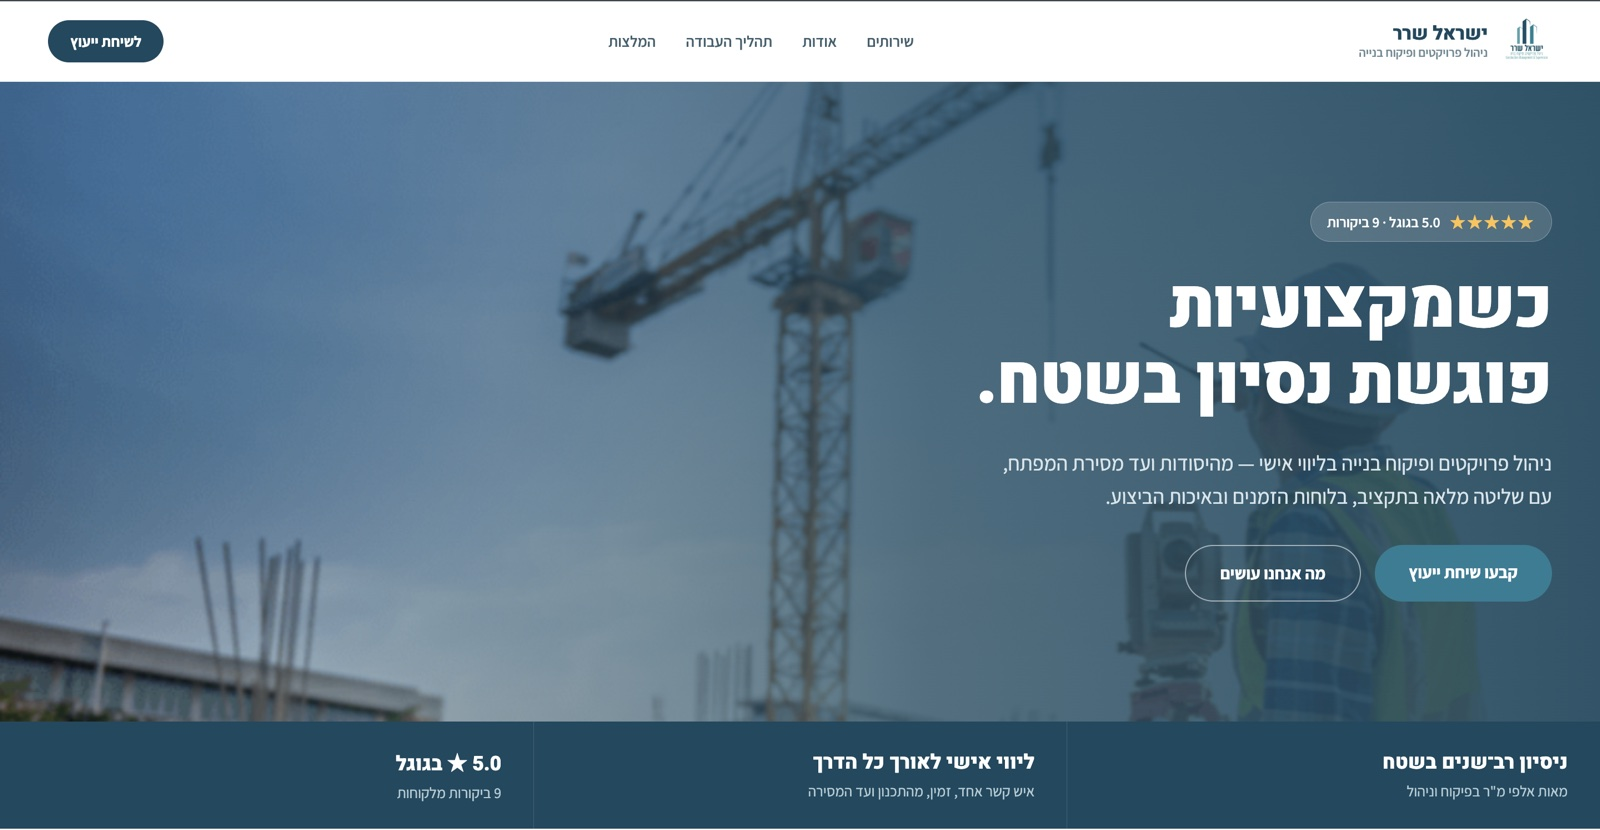
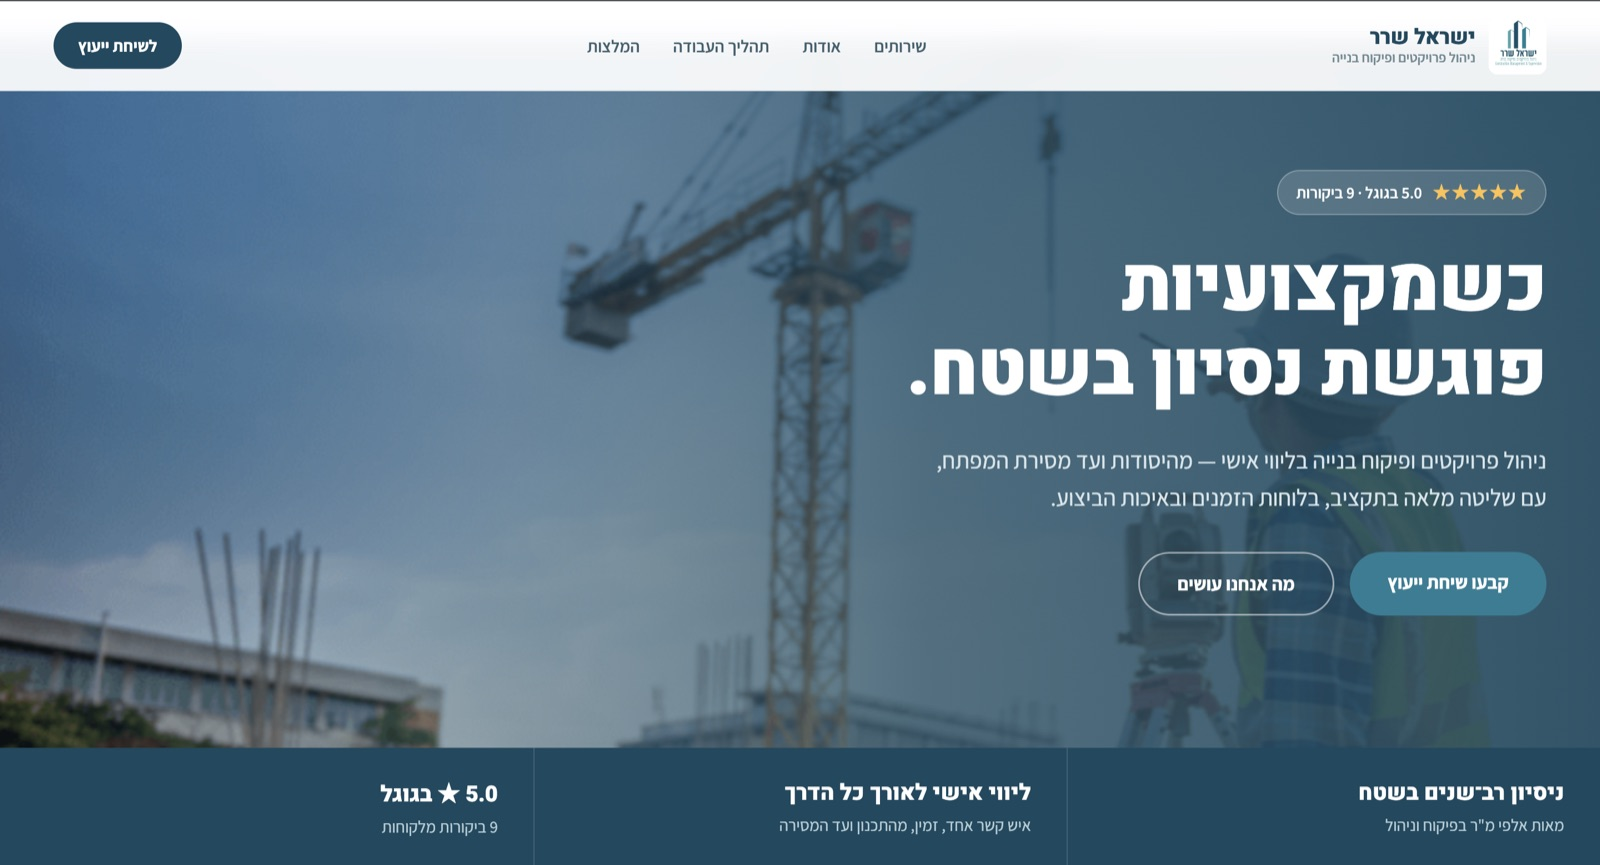
merge hero showcase into work section; update Sharar screenshot
Hero is now text-only and shorter; Work sits right below it with the
fanned, hover-to-front cards. Drop the "looking at one right now" note
and the scroll hint, and match the screenshot frame to the images.

diff --git a/src/components/Work.tsx b/src/components/Work.tsx
@@ -7,11 +7,42 @@ interface Props {
   translations: Translations;
 }
 
+// Per-card tilt: a slight alternating lean when stacked on mobile, a fan (center card raised) on desktop.
+const FAN = [
+  '-rotate-1 md:-rotate-3 md:mt-10 md:hover:scale-105',
+  'rotate-1 md:rotate-0 md:z-10 md:scale-[1.08] md:hover:scale-[1.12]',
+  '-rotate-1 md:rotate-3 md:mt-10 md:hover:scale-105',
+];
+
+// A browser-window frame around a client page screenshot.
+function BrowserShot({ src, alt, eager = false }: { src: string; alt: string; eager?: boolean }) {
+  return (
+    <div className="rounded-xl overflow-hidden bg-white ring-1 ring-border shadow-2xl shadow-black/15">
+      <div className="flex items-center gap-1.5 h-6 px-3 bg-[var(--color-border)]/60">
+        <span className="w-2 h-2 rounded-full bg-foreground/15" />
+        <span className="w-2 h-2 rounded-full bg-foreground/15" />
+        <span className="w-2 h-2 rounded-full bg-foreground/15" />
+      </div>
+      <div className="relative aspect-[1600/865]">
+        <Image
+          src={src}
+          alt={alt}
+          fill
+          sizes="(min-width: 768px) 26vw, 80vw"
+          loading={eager ? 'eager' : 'lazy'}
+          fetchPriority={eager ? 'high' : 'auto'}
+          className="object-cover object-top"
+        />
+      </div>
+    </div>
+  );
+}
+
 export default function Work({ translations: t }: Props) {
   const w = t.work;
 
   return (
-    <section id="work" className="py-20 sm:py-24 px-[5vw]">
+    <section id="work" className="pt-16 sm:pt-20 pb-20 sm:pb-24 px-[5vw]">
       <div className="max-w-6xl mx-auto">
         <Reveal>
           <p
@@ -28,45 +59,43 @@ export default function Work({ translations: t }: Props) {
           </h2>
         </Reveal>
 
-        {/* Landing pages */}
-        <div className="grid grid-cols-1 md:grid-cols-3 gap-8 md:gap-6">
-          {w.projects.map((p, i) => (
-            <Reveal key={p.image} delay={i * 100}>
-              {/* Desktop screenshot with the phone version overlapping its corner */}
-              <div className="relative pb-8 mb-4">
-                <div className="relative w-[85%] aspect-[16/9] rounded-xl overflow-hidden ring-1 ring-border shadow-lg bg-white">
-                  <Image
-                    src={p.image}
-                    alt={`${p.client} — ${p.industry}`}
-                    fill
-                    sizes="(min-width: 768px) 26vw, 80vw"
-                    className="object-cover object-top"
-                  />
+        {/* Landing pages, fanned out on desktop; hovering one straightens it and brings it to the front */}
+        <Reveal delay={100}>
+          <div className="grid grid-cols-1 md:grid-cols-3 gap-14 md:gap-5" dir="ltr">
+            {w.projects.map((p, i) => (
+              <div key={p.image} className={`transition-transform duration-300 md:hover:z-20 md:hover:rotate-0 ${FAN[i]}`}>
+                {/* Desktop screenshot with the phone version overlapping its corner */}
+                <div className="relative pb-8 mb-4">
+                  <div className="w-[85%]">
+                    <BrowserShot
+                      src={p.image}
+                      alt={`${p.client} — ${p.industry}`}
+                      eager={i === 1}
+                    />
+                  </div>
+                  <div className="absolute right-0 bottom-0 w-[24%]">
+                    <PhoneShot
+                      src={p.mobileImage}
+                      alt={`${p.client} — ${p.industry} (mobile)`}
+                      sizes="(min-width: 768px) 8vw, 25vw"
+                    />
+                  </div>
                 </div>
-                <div className="absolute end-0 bottom-0 w-[24%]">
-                  <PhoneShot
-                    src={p.mobileImage}
-                    alt={`${p.client} — ${p.industry} (mobile)`}
-                    sizes="(min-width: 768px) 8vw, 25vw"
-                  />
+                <div dir={t.dir}>
+                  <div className="flex items-baseline gap-2 flex-wrap mb-1">
+                    <h3
+                      className="text-lg font-semibold text-foreground"
+                      style={{ fontFamily: 'var(--font-display)' }}
+                    >
+                      {p.client}
+                    </h3>
+                    <span className="text-sm text-muted">· {p.industry}</span>
+                  </div>
+                  <p className="text-sm text-muted leading-relaxed">{p.line}</p>
                 </div>
               </div>
-              <div className="flex items-baseline gap-2 flex-wrap mb-1">
-                <h3
-                  className="text-lg font-semibold text-foreground"
-                  style={{ fontFamily: 'var(--font-display)' }}
-                >
-                  {p.client}
-                </h3>
-                <span className="text-sm text-muted">· {p.industry}</span>
-              </div>
-              <p className="text-sm text-muted leading-relaxed">{p.line}</p>
-            </Reveal>
-          ))}
-        </div>
-
-        <Reveal delay={300}>
-          <p className="text-sm text-muted text-center mt-10">{w.selfNote}</p>
+            ))}
+          </div>
         </Reveal>
 
         {/* Bigger projects: Pri Hadar */}

diff --git a/src/components/Hero.tsx b/src/components/Hero.tsx
@@ -1,42 +1,13 @@
-import Image from 'next/image';
 import { type Translations } from '@/lib/translations';
-import PhoneShot from './PhoneShot';
 import Reveal from './Reveal';
-import ScrollHint from './ScrollHint';
 
 interface Props {
   translations: Translations;
 }
 
-// A browser-window frame around a client page screenshot.
-function BrowserShot({ src, alt, eager = false }: { src: string; alt: string; eager?: boolean }) {
-  return (
-    <div className="rounded-xl overflow-hidden bg-white ring-1 ring-border shadow-2xl shadow-black/15">
-      <div className="flex items-center gap-1.5 h-6 px-3 bg-[var(--color-border)]/60" dir="ltr">
-        <span className="w-2 h-2 rounded-full bg-foreground/15" />
-        <span className="w-2 h-2 rounded-full bg-foreground/15" />
-        <span className="w-2 h-2 rounded-full bg-foreground/15" />
-      </div>
-      <div className="relative aspect-[16/10]">
-        <Image
-          src={src}
-          alt={alt}
-          fill
-          sizes="(min-width: 640px) 50vw, 100vw"
-          loading={eager ? 'eager' : 'lazy'}
-          fetchPriority={eager ? 'high' : 'auto'}
-          className="object-cover object-top"
-        />
-      </div>
-    </div>
-  );
-}
-
 export default function Hero({ translations: t }: Props) {
-  const [left, center, right] = t.work.projects;
-
   return (
-    <section className="relative min-h-dvh flex flex-col items-center justify-center px-[5vw] py-24 sm:py-28 text-center overflow-hidden">
+    <section className="relative flex flex-col items-center px-[5vw] pt-32 sm:pt-40 pb-4 sm:pb-8 text-center">
       <Reveal delay={40}>
         <p
           className="font-semibold tracking-[0.22em] uppercase mb-5 sm:mb-7"
@@ -101,37 +72,6 @@ export default function Hero({ translations: t }: Props) {
           ))}
         </ul>
       </Reveal>
-
-      {/* Client pages, fanned out */}
-      <Reveal delay={300} className="w-full">
-        {/* Mobile: browser in the middle, phones overlapping its sides */}
-        <div className="sm:hidden relative w-full mt-14 pb-6" dir="ltr">
-          <div className="mx-auto w-[82%]">
-            <BrowserShot src={center.image} alt={`${center.client} — ${center.industry}`} eager />
-          </div>
-          <div className="absolute left-0 top-10 w-[27%] -rotate-6 z-10">
-            <PhoneShot src={left.mobileImage} alt={`${left.client} — ${left.industry}`} sizes="30vw" />
-          </div>
-          <div className="absolute right-0 top-10 w-[27%] rotate-6 z-10">
-            <PhoneShot src={right.mobileImage} alt={`${right.client} — ${right.industry}`} sizes="30vw" />
-          </div>
-        </div>
-
-        {/* Desktop: three browser windows, fanned out */}
-        <div className="hidden sm:block relative w-full max-w-5xl mx-auto mt-20" dir="ltr">
-          <div className="absolute left-0 top-10 w-[46%] -rotate-3 transition-transform duration-300 hover:z-20 hover:rotate-0 hover:scale-105">
-            <BrowserShot src={left.image} alt={`${left.client} — ${left.industry}`} />
-          </div>
-          <div className="absolute right-0 top-10 w-[46%] rotate-3 transition-transform duration-300 hover:z-20 hover:rotate-0 hover:scale-105">
-            <BrowserShot src={right.image} alt={`${right.client} — ${right.industry}`} />
-          </div>
-          <div className="relative z-10 mx-auto w-[60%] transition-transform duration-300 hover:z-20 hover:rotate-0 hover:scale-105">
-            <BrowserShot src={center.image} alt={`${center.client} — ${center.industry}`} eager />
-          </div>
-        </div>
-      </Reveal>
-
-      <ScrollHint label={t.hero.scrollHint} />
     </section>
   );
 }

diff --git a/src/lib/translations.ts b/src/lib/translations.ts
@@ -25,7 +25,6 @@ export const t = {
       cta1: 'Get your landing page →',
       cta2: 'See my work',
       stats: ['2,000₪ fixed price', 'Live in 1–2 weeks', 'No monthly fees'],
-      scrollHint: 'Scroll to see more',
     },
     howItWorks: {
       label: 'How it works',
@@ -79,7 +78,6 @@ export const t = {
           mobileImage: '/work/mega-afar-mobile.jpg',
         },
       ],
-      selfNote: "And you're looking at one right now.",
       more: {
         h3: 'Need more than a page?',
         desc: "I also build full systems, like Pri Hadar's online ordering and delivery management.",
@@ -178,7 +176,6 @@ export const t = {
       cta1: 'אני רוצה דף נחיתה ←',
       cta2: 'לעבודות שלי',
       stats: ['מחיר קבוע 2,000₪', 'באוויר תוך שבוע–שבועיים', 'בלי תשלום חודשי'],
-      scrollHint: 'גלול כדי לראות עוד',
     },
     howItWorks: {
       label: 'איך זה עובד',
@@ -232,7 +229,6 @@ export const t = {
           mobileImage: '/work/mega-afar-mobile.jpg',
         },
       ],
-      selfNote: 'ואתה מסתכל על אחד מהם ממש עכשיו.',
       more: {
         h3: 'צריך יותר מדף?',
         desc: 'אני בונה גם מערכות מלאות, כמו מערכת ההזמנות וניהול המשלוחים של פרי הדר.',

diff --git a/src/app/[lang]/page.tsx b/src/app/[lang]/page.tsx
@@ -101,8 +101,8 @@ export default async function Home({ params }: { params: Promise<{ lang: string 
       <Nav translations={tr} lang={locale} />
       <main>
         <Hero translations={tr} />
-        <HowItWorks translations={tr} />
         <Work translations={tr} />
+        <HowItWorks translations={tr} />
         <About translations={tr} />
         <FAQ translations={tr} />
         <Contact translations={tr} lang={locale} />

diff --git a/src/app/globals.css b/src/app/globals.css
@@ -39,17 +39,3 @@ body {
   font-family: var(--font-sans);
   -webkit-font-smoothing: antialiased;
 }
-
-@keyframes hint-bounce {
-  0%, 100% { transform: translateY(0); }
-  50% { transform: translateY(6px); }
-}
-
-.animate-hint-bounce {
-  animation: hint-bounce 1.8s ease-in-out infinite;
-}
-
-@media (prefers-reduced-motion: reduce) {
-  .animate-hint-bounce { animation: none; }
-}
-
